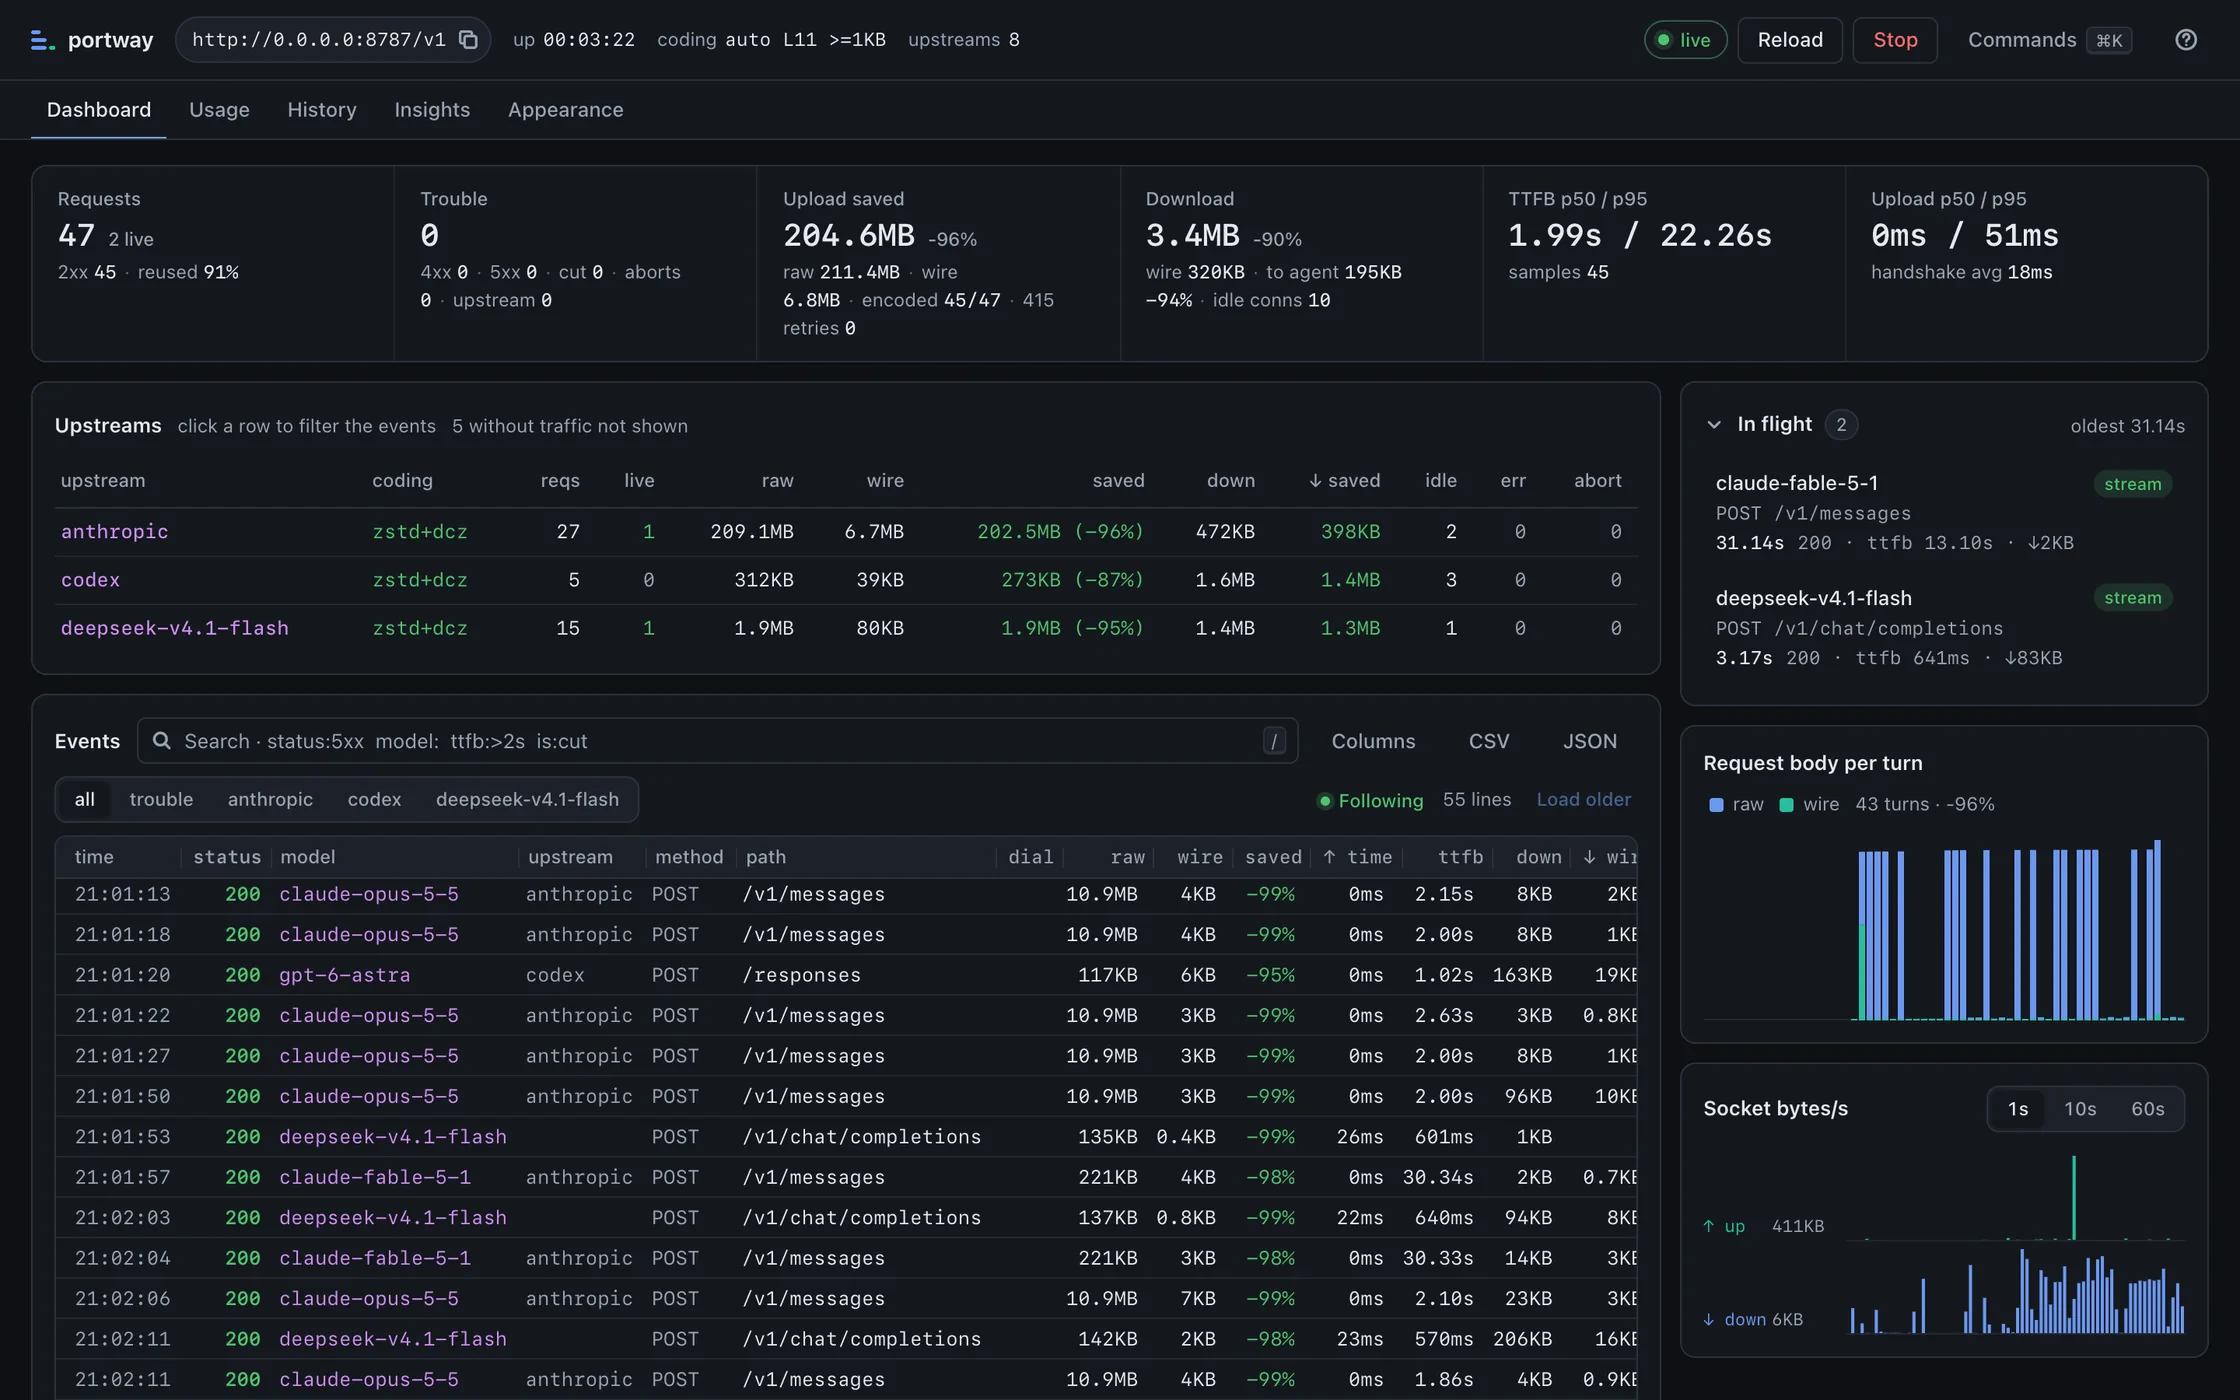
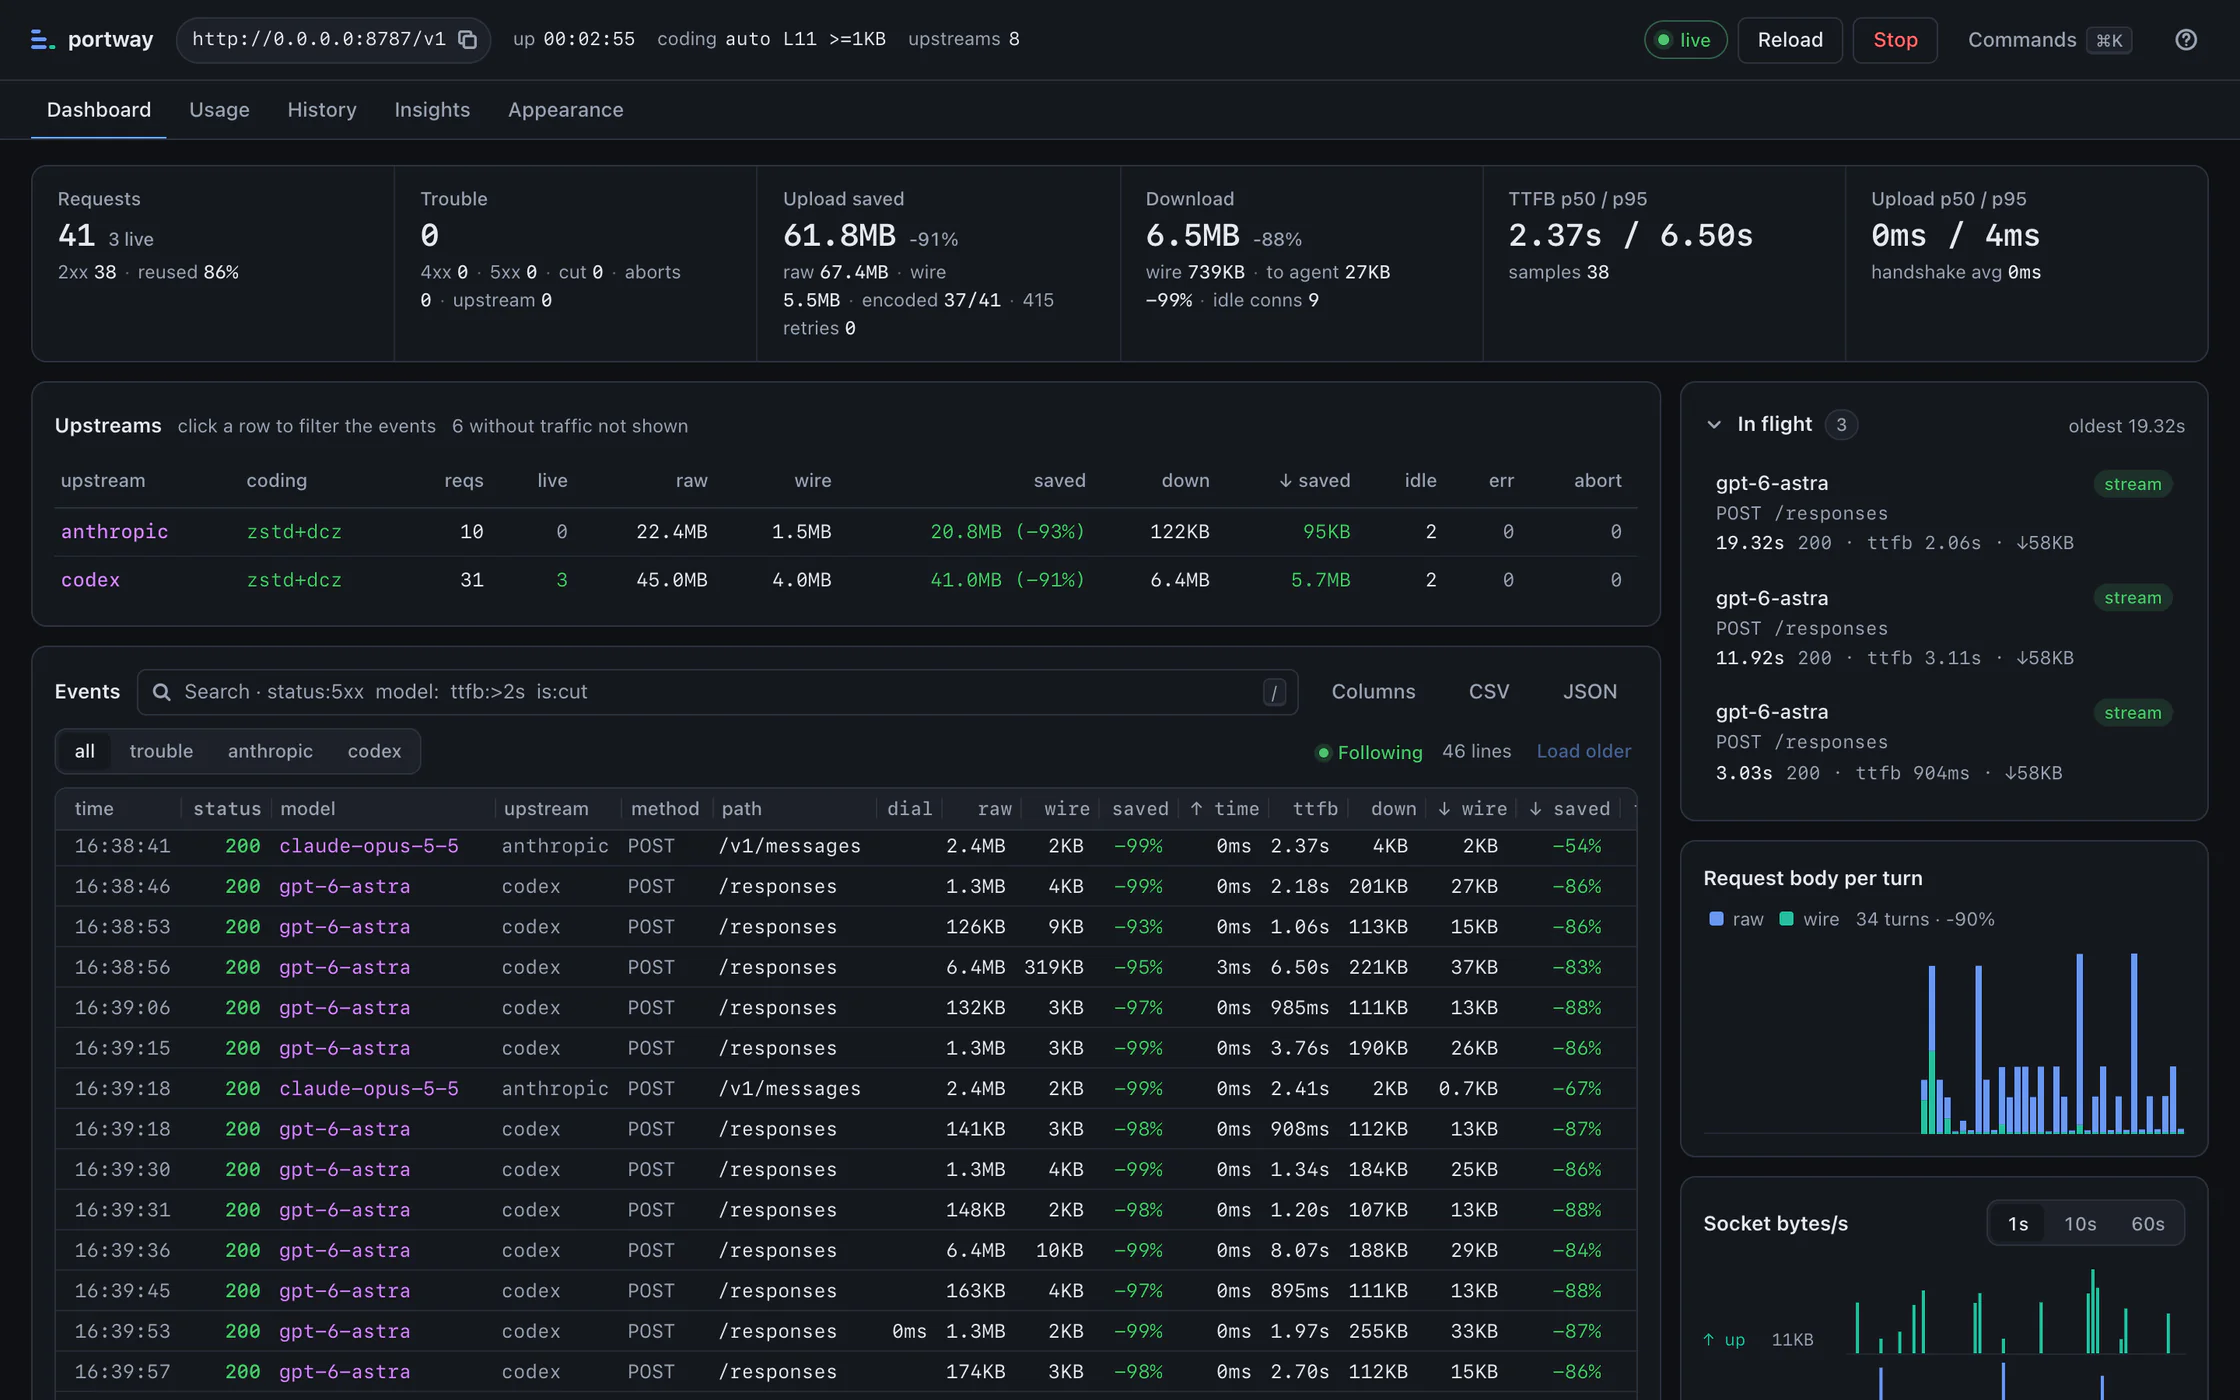
fix(site): retake the console screenshot on the new build
- Capture screens/console.webp from spark's live console after deploying 0.2.3+17, so the header carries the new mark natively
- Take it as before: dark theme, comfortable density, 1440x900 at 2x, scaled to 2240x1400 and encoded at WebP quality 85
- Record a real Claude Code and Codex session, three minutes in, with the startup lines scrolled out of the event list
- Update the four alt texts to the new numbers: 41 requests, 61.8 MB (91 percent) of upload saved

diff --git a/site/ja/index.html b/site/ja/index.html
@@ -157,7 +157,7 @@
       <button type="button" data-screen="console" aria-pressed="true">ブラウザー</button>
       <button type="button" data-screen="tui" aria-pressed="false">ターミナル</button>
     </div>
-    <a class="shot" href="../screens/console.webp" data-shot="console"><img src="../screens/console.webp" width="1120" height="700" alt="ブラウザーコンソール：リクエスト 47 件、204.6 MB（96%）のアップロード削減、使用中のアップストリーム表とターンごとのリクエストサイズのグラフ"></a>
+    <a class="shot" href="../screens/console.webp" data-shot="console"><img src="../screens/console.webp" width="1120" height="700" alt="ブラウザーコンソール：リクエスト 41 件、61.8 MB（91%）のアップロード削減、使用中のアップストリーム表とターンごとのリクエストサイズのグラフ"></a>
     <a class="shot" href="../screens/tui.webp" data-shot="tui" hidden><img loading="lazy" src="../screens/tui.webp" width="1058" height="675" alt="ターミナルダッシュボード：Claude Code の 10.9 MB のリクエストが数 KB で送られ、Codex などほかのモデルと合わせてアップロードの 96% が削減されている"></a>
   </figure>
 </section>

diff --git a/site/ko/index.html b/site/ko/index.html
@@ -161,7 +161,7 @@
       <button type="button" data-screen="console" aria-pressed="true">브라우저</button>
       <button type="button" data-screen="tui" aria-pressed="false">터미널</button>
     </div>
-    <a class="shot" href="../screens/console.webp" data-shot="console"><img src="../screens/console.webp" width="1120" height="700" alt="브라우저 콘솔: 요청 47건, 204.6 MB(96%) 업로드 절약, 사용 중인 업스트림 표와 턴별 요청 크기 차트"></a>
+    <a class="shot" href="../screens/console.webp" data-shot="console"><img src="../screens/console.webp" width="1120" height="700" alt="브라우저 콘솔: 요청 41건, 61.8 MB(91%) 업로드 절약, 사용 중인 업스트림 표와 턴별 요청 크기 차트"></a>
     <a class="shot" href="../screens/tui.webp" data-shot="tui" hidden><img loading="lazy" src="../screens/tui.webp" width="1058" height="675" alt="터미널 대시보드: Claude Code의 10.9 MB 요청이 몇 KB로 전송되고, Codex 등 다른 모델과 함께 업로드의 96%가 절약된 모습"></a>
   </figure>
 </section>

diff --git a/site/index.html b/site/index.html
@@ -160,7 +160,7 @@
       <button type="button" data-screen="console" aria-pressed="true">Browser</button>
       <button type="button" data-screen="tui" aria-pressed="false">Terminal</button>
     </div>
-    <a class="shot" href="screens/console.webp" data-shot="console"><img src="screens/console.webp" width="1120" height="700" alt="The browser console: 47 requests, 204.6 MB (96 percent) of upload saved, the upstreams in use and a per-turn request size chart."></a>
+    <a class="shot" href="screens/console.webp" data-shot="console"><img src="screens/console.webp" width="1120" height="700" alt="The browser console: 41 requests, 61.8 MB (91 percent) of upload saved, the upstreams in use and a per-turn request size chart."></a>
     <a class="shot" href="screens/tui.webp" data-shot="tui" hidden><img loading="lazy" src="screens/tui.webp" width="1058" height="675" alt="The terminal dashboard: Claude Code turns of 10.9 MB sent as a few kilobytes each, beside Codex and other models, with 96 percent of the upload saved."></a>
   </figure>
 </section>

diff --git a/site/zh/index.html b/site/zh/index.html
@@ -141,7 +141,7 @@
       <button type="button" data-screen="console" aria-pressed="true">浏览器</button>
       <button type="button" data-screen="tui" aria-pressed="false">终端</button>
     </div>
-    <a class="shot" href="../screens/console.webp" data-shot="console"><img src="../screens/console.webp" width="1120" height="700" alt="浏览器控制台：47 个请求，节省 204.6 MB（96%）的上传、正在使用的上游表格和每轮请求大小图表"></a>
+    <a class="shot" href="../screens/console.webp" data-shot="console"><img src="../screens/console.webp" width="1120" height="700" alt="浏览器控制台：41 个请求，节省 61.8 MB（91%）的上传、正在使用的上游表格和每轮请求大小图表"></a>
     <a class="shot" href="../screens/tui.webp" data-shot="tui" hidden><img loading="lazy" src="../screens/tui.webp" width="1058" height="675" alt="终端面板：Claude Code 的 10.9 MB 请求只以几 KB 发出，与 Codex 等其他模型一起，上传节省 96%"></a>
   </figure>
 </section>
